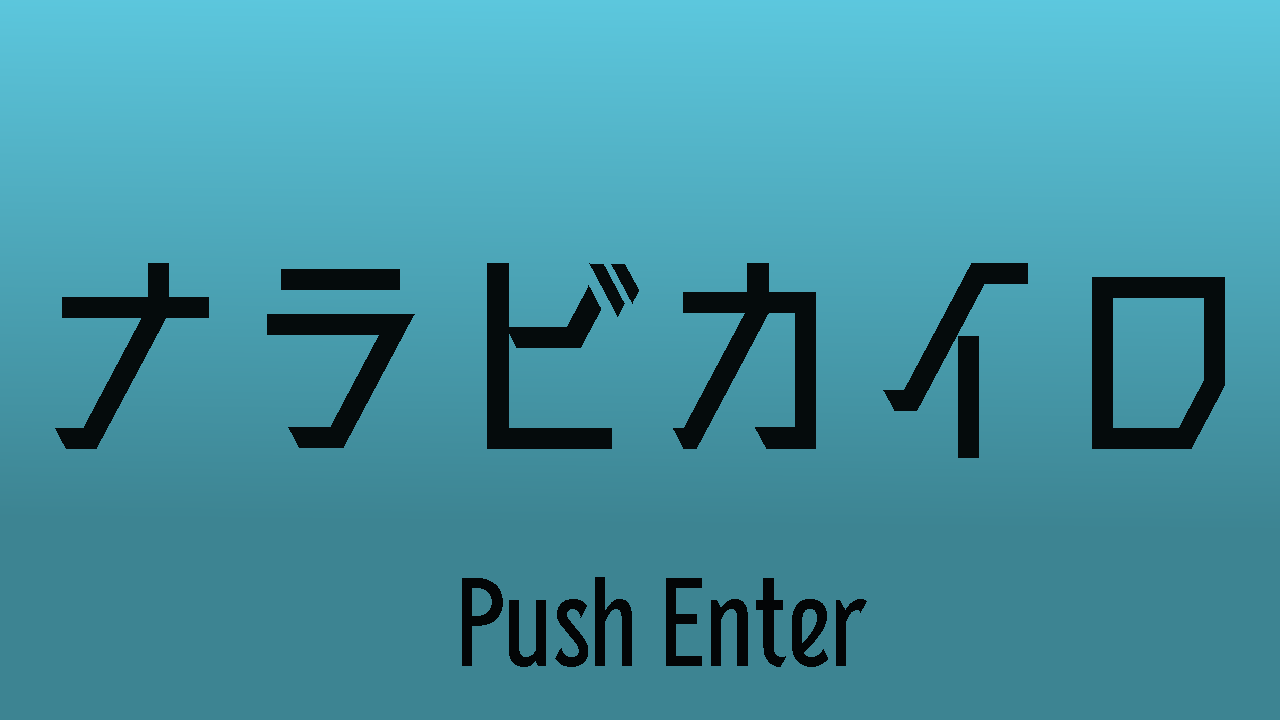
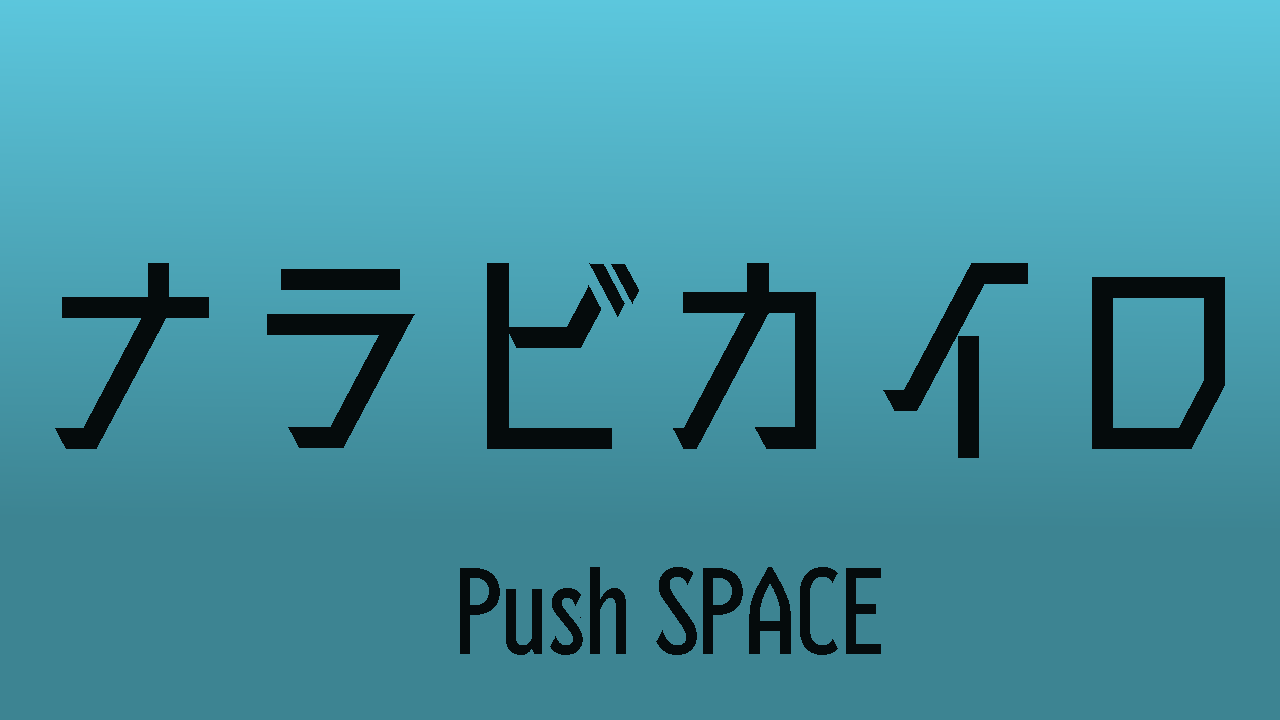
stage&title変更

Changed region(s): [[0.3438, 0.7639, 0.6875, 0.9472]]

diff --git a/Scene/PlayScene.h b/Scene/PlayScene.h
@@ -146,7 +146,7 @@ private:	//メンバ変数
 	// blockでステージ生成
 	std::stringstream stageBlockCommands;
 
-	int blockNum = 300;
+	int blockNum = 400;
 	BlockType blockType = BlockType::Init;
 	int SPHERE_COLISSION_NUM = 1;	//コライダー（スフィア）の数
 	std::vector<Matrix4>* collisionBonesMat;	//当たり判定用のボーンのワールド行列

diff --git a/Scene/SceneObjects.h b/Scene/SceneObjects.h
@@ -57,9 +57,9 @@ public:
 
 
 	//ステージのブロックの数
-	int blockNum = 300;
+	int blockNum = 400;
 	Model* asmodel = nullptr;
-	Object3d* asobj_[300] = { 0 };
+	Object3d* asobj_[400] = { 0 };
 
 	Model* plamodel = nullptr;
 	Object3d* plaobject = nullptr;
